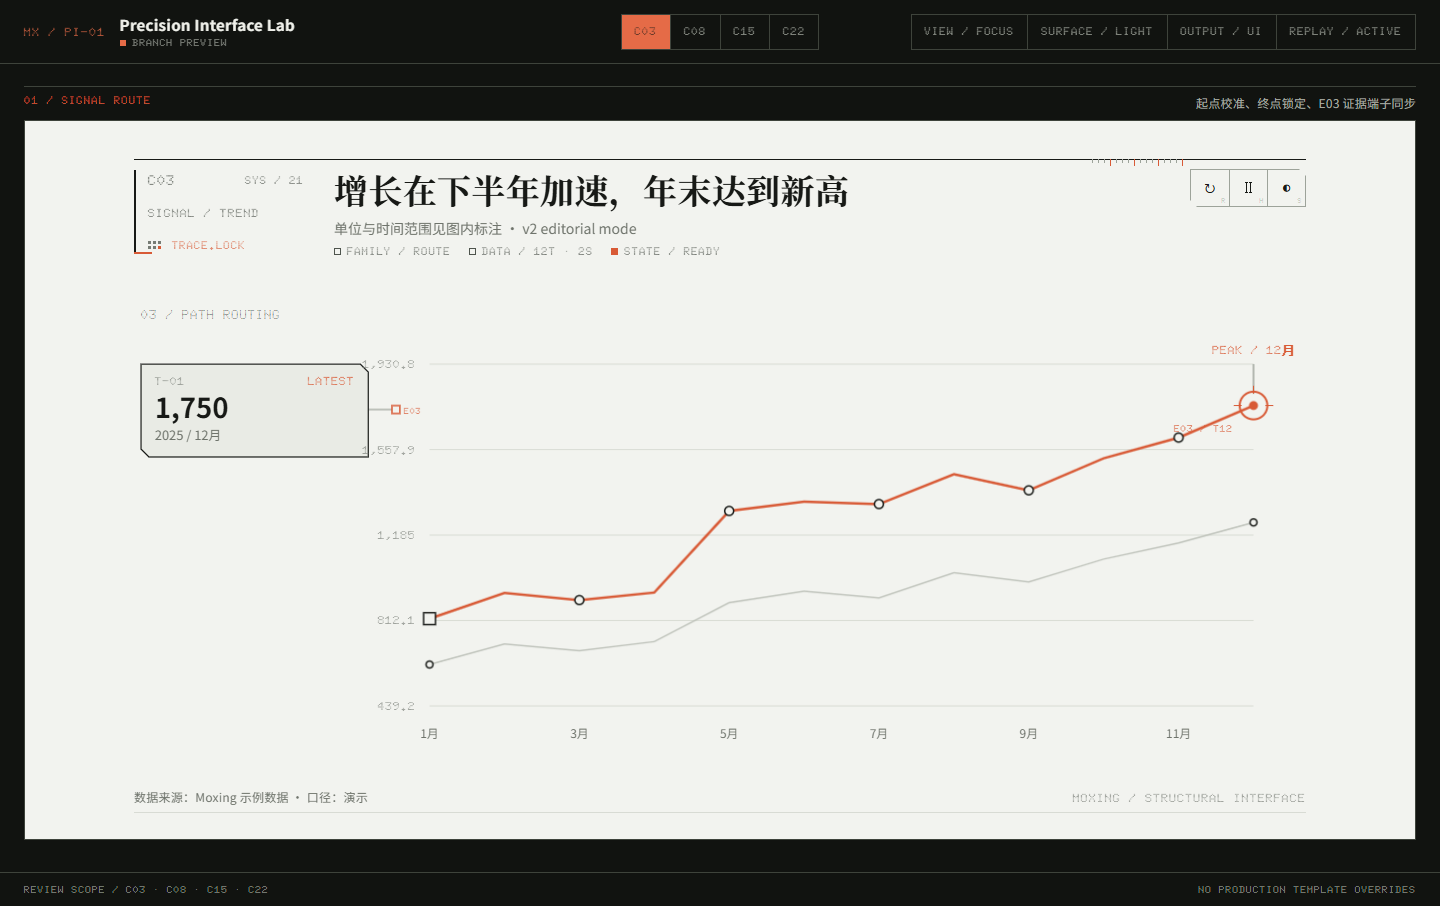
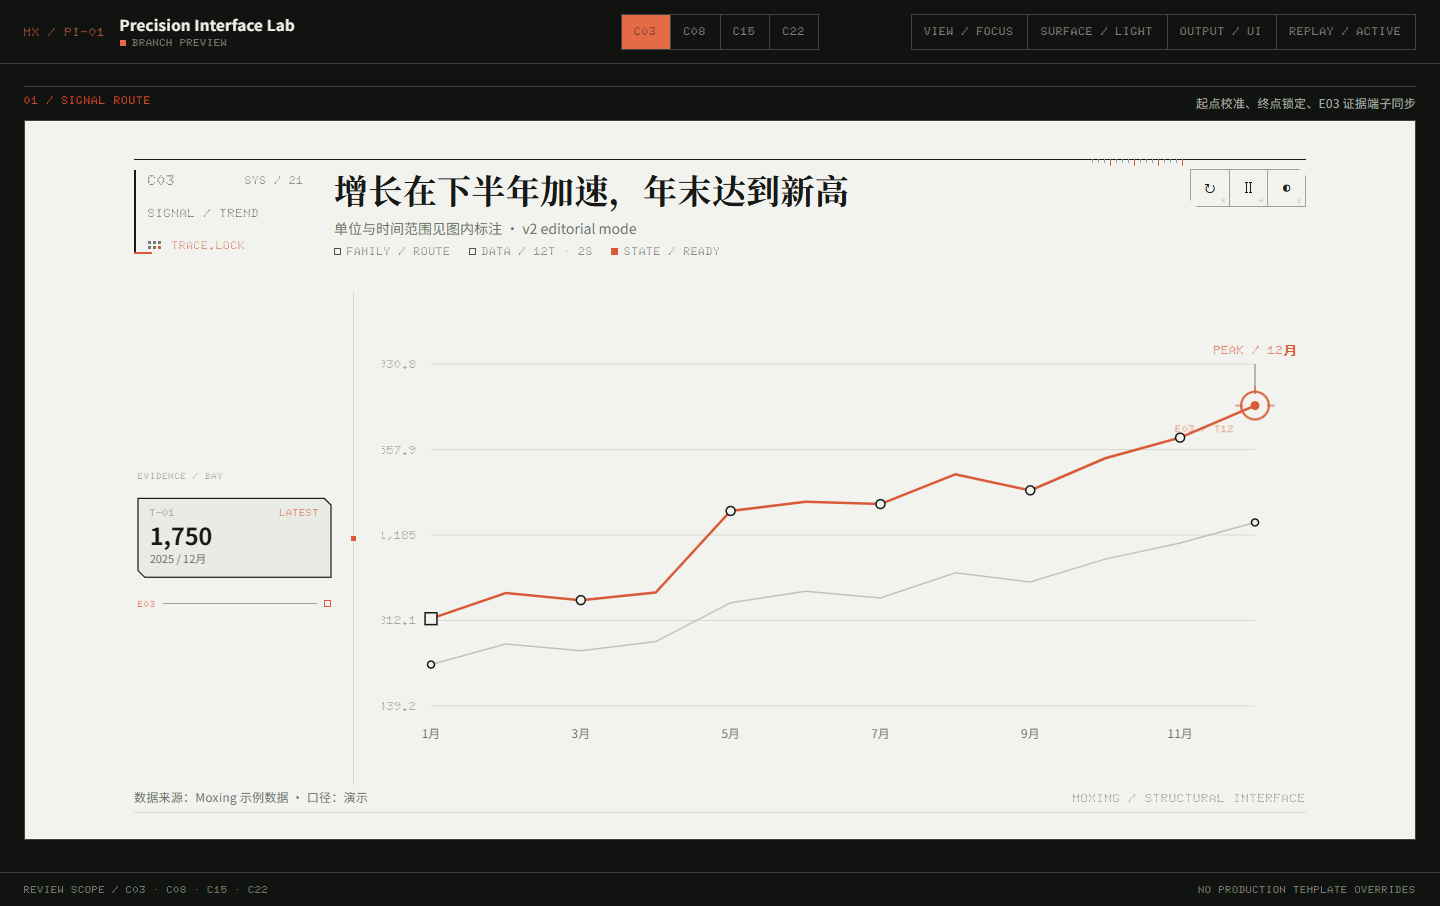
fix: isolate evidence bay and streamline replay motion

diff --git a/designs/precision-interface-lab/lab.js b/designs/precision-interface-lab/lab.js
@@ -3,10 +3,7 @@
   const specs = {
     c03: {
       code: "C03", name: "SIGNAL / TREND", family: "ROUTE", data: "12T · 2S", state: "TRACE.LOCK",
-      background: `
-        <path d="M 230 120 H 258" pathLength="1" class="pi-terminal-lead" />
-        <rect x="254" y="116" width="8" height="8" class="pi-terminal-node" />
-        <text x="266" y="124" font-size="9" class="pi-terminal-id">E03</text>`,
+      evidence: { id: "E03", viewBox: "0 64 230 114", plotX: 248, lockDelay: 1280 },
       foreground: `
         <rect x="286" y="325.67" width="12" height="12" class="pi-socket" style="--pi-delay:180ms" />
         <circle cx="1126" cy="115.94" r="14" class="pi-lock-ring" />
@@ -15,10 +12,7 @@
     },
     c08: {
       code: "C08", name: "STAGE / CHANNEL", family: "STAGE", data: "05M · 04L", state: "BOTTLENECK",
-      background: `
-        <path d="M 230 146 H 270" pathLength="1" class="pi-terminal-lead" />
-        <rect x="266" y="142" width="8" height="8" class="pi-terminal-node" />
-        <text x="278" y="150" font-size="9" class="pi-terminal-id">E08</text>`,
+      evidence: { id: "E08", viewBox: "0 64 230 114", plotX: 280, lockDelay: 1180 },
       foreground: `
         <rect x="380.8" y="416" width="8" height="8" class="pi-socket" style="--pi-delay:180ms" /><text x="384.8" y="443" text-anchor="middle" font-size="9" class="pi-address">S1</text>
         <rect x="546.4" y="416" width="8" height="8" class="pi-socket" style="--pi-delay:300ms" /><text x="550.4" y="443" text-anchor="middle" font-size="9" class="pi-address">S2</text>
@@ -30,10 +24,7 @@
     },
     c15: {
       code: "C15", name: "COMMERCE / FLOW", family: "PORT", data: "05N · 04R", state: "LEAK.LOCK",
-      background: `
-        <path d="M 200 142 H 242" pathLength="1" class="pi-terminal-lead" />
-        <rect x="238" y="138" width="8" height="8" class="pi-terminal-node" />
-        <text x="250" y="146" font-size="9" class="pi-terminal-id">E15</text>`,
+      evidence: { id: "E15", viewBox: "0 76 200 114", plotX: 250, lockDelay: 1100 },
       foreground: `
         <rect x="384" y="191" width="8" height="8" class="pi-socket" style="--pi-delay:180ms" />
         <rect x="384" y="341" width="8" height="8" class="pi-socket" style="--pi-delay:260ms" />
@@ -47,10 +38,7 @@
     },
     c22: {
       code: "C22", name: "ADDRESS / MATRIX", family: "MATRIX", data: "05×05", state: "PAIR.LOCK",
-      background: `
-        <path d="M 230 392 H 270" pathLength="1" class="pi-terminal-lead" />
-        <rect x="266" y="388" width="8" height="8" class="pi-terminal-node" />
-        <text x="278" y="396" font-size="9" class="pi-terminal-id">E22</text>`,
+      evidence: { id: "E22", viewBox: "0 336 230 114", plotX: 255, lockDelay: 980 },
       foreground: `
         <text x="335" y="65" text-anchor="middle" font-size="9" class="pi-address">C1</text><text x="405" y="65" text-anchor="middle" font-size="9" class="pi-address pi-address-signal">C2</text><text x="475" y="65" text-anchor="middle" font-size="9" class="pi-address">C3</text><text x="545" y="65" text-anchor="middle" font-size="9" class="pi-address">C4</text><text x="615" y="65" text-anchor="middle" font-size="9" class="pi-address">C5</text>
         <text x="286" y="109" text-anchor="end" font-size="9" class="pi-address">R1</text><text x="286" y="179" text-anchor="end" font-size="9" class="pi-address pi-address-signal">R2</text><text x="286" y="249" text-anchor="end" font-size="9" class="pi-address">R3</text><text x="286" y="319" text-anchor="end" font-size="9" class="pi-address">R4</text><text x="286" y="389" text-anchor="end" font-size="9" class="pi-address">R5</text>
@@ -68,6 +56,58 @@
     group.setAttribute("class", className);
     group.innerHTML = markup;
     return group;
+  }
+
+  function buildEvidenceBay(doc, svg, spec, key) {
+    const chartBody = svg.parentElement;
+    const plate = svg.querySelector(".evidence-plate");
+    if (!chartBody || !plate) return;
+
+    const bay = doc.createElement("aside");
+    bay.className = "pi-evidence-bay";
+    bay.setAttribute("aria-label", `${spec.evidence.id} evidence bay`);
+    bay.style.setProperty("--pi-terminal-delay", `${Math.max(0, spec.evidence.lockDelay - 120)}ms`);
+
+    const bayLabel = doc.createElement("span");
+    bayLabel.className = "pi-evidence-bay__label";
+    bayLabel.textContent = "EVIDENCE / BAY";
+
+    const plateSvg = doc.createElementNS("http://www.w3.org/2000/svg", "svg");
+    plateSvg.setAttribute("class", "pi-evidence-svg");
+    plateSvg.setAttribute("viewBox", spec.evidence.viewBox);
+    plateSvg.setAttribute("aria-hidden", "true");
+    plateSvg.append(plate);
+
+    const terminal = doc.createElement("div");
+    terminal.className = "pi-bay-terminal";
+    terminal.innerHTML = `<span>${spec.evidence.id}</span><i></i><b></b>`;
+
+    bay.append(bayLabel, plateSvg, terminal);
+    chartBody.classList.add("pi-split-body");
+    chartBody.insertBefore(bay, svg);
+    svg.classList.add("pi-data-field");
+    svg.setAttribute("viewBox", `${spec.evidence.plotX} 0 ${1172 - spec.evidence.plotX} 500`);
+    svg.setAttribute("preserveAspectRatio", "xMidYMid meet");
+
+    if (key === "c22") {
+      [...svg.querySelectorAll("text.index.muted")].forEach((text) => {
+        const x = Number.parseFloat(text.getAttribute("x"));
+        const y = Number.parseFloat(text.getAttribute("y"));
+        if (x === 0 && y > 50) {
+          text.setAttribute("x", "288");
+          text.setAttribute("text-anchor", "end");
+        }
+      });
+    }
+  }
+
+  function optimizeMotion(doc, key) {
+    doc.querySelectorAll("[data-motion]").forEach((element) => {
+      element.removeAttribute("data-motion");
+      element.removeAttribute("data-choreo");
+      ["--delay", "--duration", "--dx", "--dy", "--delay-brief", "--delay-story"].forEach((property) => element.style.removeProperty(property));
+    });
+    doc.documentElement.style.setProperty("--pi-lock-delay", `${specs[key].evidence.lockDelay}ms`);
   }
 
   function instrument(frame) {
@@ -108,9 +148,9 @@
     const controlCodes = { replay: "R", pause: "H", surface: "S" };
     controls.querySelectorAll("button").forEach((button) => { button.dataset.code = controlCodes[button.dataset.action]; });
 
-    const background = svgGroup(doc, "pi-overlay pi-overlay--background", spec.background);
+    buildEvidenceBay(doc, svg, spec, key);
+    optimizeMotion(doc, key);
     const foreground = svgGroup(doc, "pi-overlay pi-overlay--foreground", spec.foreground);
-    svg.insertBefore(background, svg.children[1] || null);
     svg.append(foreground);
 
     frame.contentWindow.Moxing?.setSurface(state.surface);
@@ -148,7 +188,13 @@
     const scaleKey = scale.toFixed(5);
     if (stage.dataset.scale === scaleKey) return;
     stage.dataset.scale = scaleKey;
-    stage.style.transform = `scale(${scaleKey})`;
+    if (CSS.supports("zoom", "1")) {
+      stage.style.zoom = scaleKey;
+      stage.style.transform = "none";
+    } else {
+      stage.style.zoom = "1";
+      stage.style.transform = `scale(${scaleKey})`;
+    }
     viewport.style.height = `${720 * scale}px`;
   }
   function rescaleAll() { document.querySelectorAll(".frame-viewport").forEach(rescale); }

diff --git a/designs/precision-interface-lab/precision-variant.css b/designs/precision-interface-lab/precision-variant.css
@@ -27,11 +27,18 @@ html[data-precision="lab"] .motion-controls button:first-child{border-left:0}
 html[data-precision="lab"] .motion-controls button::after{content:attr(data-code);position:absolute;right:3px;bottom:1px;font-size:7px;color:var(--matrix-quiet);font-family:'Doto','Cascadia Mono',monospace;letter-spacing:.04em}
 html[data-output="export"] .motion-controls{display:none!important}
 
+.pi-split-body{display:grid;grid-template-columns:220px minmax(0,1fr);column-gap:28px;align-items:stretch;min-width:0}
+.pi-evidence-bay{position:relative;min-width:0;padding:0 22px 0 4px;border-right:1px solid var(--grid);display:grid;grid-template-rows:18px auto 18px;align-content:center;gap:9px}
+.pi-evidence-bay::after{content:"";position:absolute;right:-3px;top:50%;width:5px;height:5px;margin-top:-2px;background:var(--signal)}
+.pi-evidence-bay__label{font-family:'Doto','Cascadia Mono',monospace;font-size:9px;font-weight:700;font-variation-settings:'ROND' 0,'wght' 700;letter-spacing:.08em;color:var(--matrix-quiet);align-self:end}
+.pi-evidence-svg{display:block;width:100%!important;height:auto!important;overflow:visible}
+.pi-bay-terminal{height:18px;display:grid;grid-template-columns:auto minmax(20px,1fr) 7px;align-items:center;gap:7px;font-family:'Doto','Cascadia Mono',monospace;font-size:9px;font-weight:750;font-variation-settings:'ROND' 0,'wght' 750;letter-spacing:.06em;color:var(--signal)}
+.pi-bay-terminal i{height:1px;background:var(--rail)}
+.pi-bay-terminal b{display:block;width:7px;height:7px;border:1.5px solid var(--signal);background:var(--bg)}
+.pi-data-field{display:block;width:100%!important;height:100%!important;min-width:0;overflow:hidden}
+
 html[data-precision="lab"] .evidence-plate .panel-stroke{stroke:var(--ink);stroke-width:1.2}
 html[data-precision="lab"] .evidence-plate::selection{background:transparent}
-svg .pi-terminal-lead{fill:none;stroke:var(--rail);stroke-width:1.25;vector-effect:non-scaling-stroke}
-svg .pi-terminal-node{fill:var(--bg);stroke:var(--signal);stroke-width:1.5;vector-effect:non-scaling-stroke}
-svg .pi-terminal-id{font-family:'Doto','Cascadia Mono',monospace;fill:var(--signal);font-weight:750;font-variation-settings:'ROND' 0,'wght' 750;letter-spacing:.06em}
 svg .pi-socket{fill:var(--bg);stroke:var(--ink);stroke-width:1.5;vector-effect:non-scaling-stroke}
 svg .pi-socket-signal{fill:var(--signal);stroke:var(--on-signal);stroke-width:1;vector-effect:non-scaling-stroke}
 svg .pi-lock-ring{fill:none;stroke:var(--signal);stroke-width:2;vector-effect:non-scaling-stroke}
@@ -40,14 +47,15 @@ svg .pi-address{font-family:'Doto','Cascadia Mono',monospace;fill:var(--matrix-s
 svg .pi-address-signal{fill:var(--signal)}
 svg .pi-focus-corner{fill:none;stroke:var(--signal);stroke-width:2;vector-effect:non-scaling-stroke}
 
-@keyframes pi-terminal-send{from{opacity:0;stroke-dashoffset:1}to{opacity:1;stroke-dashoffset:0}}
-@keyframes pi-terminal-id-on{from{opacity:0}to{opacity:1}}
-@keyframes pi-socket-seat{0%{opacity:0;transform:scale(.3)}72%{opacity:1;transform:scale(1.15)}100%{opacity:1;transform:scale(1)}}
-@keyframes pi-lock-pulse{0%{opacity:0;transform:scale(.45)}70%{opacity:1;transform:scale(1.12)}100%{opacity:1;transform:scale(1)}}
-.motion-enabled.is-playing .pi-terminal-lead{stroke-dasharray:1;animation:pi-terminal-send 180ms linear 1180ms both}
-.motion-enabled.is-playing .pi-terminal-node{animation:pi-lock-pulse 200ms cubic-bezier(.22,.78,.22,1) 1320ms both;transform-box:fill-box;transform-origin:center}
-.motion-enabled.is-playing .pi-terminal-id{animation:pi-terminal-id-on 140ms linear 1380ms both}
-.motion-enabled.is-playing .pi-socket{animation:pi-socket-seat 240ms cubic-bezier(.22,.78,.22,1) var(--pi-delay,180ms) both;transform-box:fill-box;transform-origin:center}
-.motion-enabled.is-playing .pi-socket-signal,.motion-enabled.is-playing .pi-lock-ring,.motion-enabled.is-playing .pi-focus-corner{animation:pi-lock-pulse 260ms cubic-bezier(.22,.78,.22,1) 1500ms both;transform-box:fill-box;transform-origin:center}
-html[data-lab-view="grid"] .motion-enabled.is-playing [data-motion],html[data-lab-view="grid"] .motion-enabled.is-playing .pi-terminal-lead,html[data-lab-view="grid"] .motion-enabled.is-playing .pi-terminal-node,html[data-lab-view="grid"] .motion-enabled.is-playing .pi-terminal-id,html[data-lab-view="grid"] .motion-enabled.is-playing .pi-socket,html[data-lab-view="grid"] .motion-enabled.is-playing .pi-socket-signal,html[data-lab-view="grid"] .motion-enabled.is-playing .pi-lock-ring,html[data-lab-view="grid"] .motion-enabled.is-playing .pi-focus-corner{animation:none!important}
-@media (prefers-reduced-motion:reduce){.motion-enabled.is-playing .pi-terminal-lead,.motion-enabled.is-playing .pi-terminal-node,.motion-enabled.is-playing .pi-terminal-id,.motion-enabled.is-playing .pi-socket,.motion-enabled.is-playing .pi-socket-signal,.motion-enabled.is-playing .pi-lock-ring,.motion-enabled.is-playing .pi-focus-corner{animation:none!important}}
+@keyframes pi-field-enter{from{opacity:.18;transform:translate3d(-7px,0,0)}to{opacity:1;transform:translate3d(0,0,0)}}
+@keyframes pi-evidence-enter{from{opacity:0;transform:translate3d(-5px,0,0)}to{opacity:1;transform:translate3d(0,0,0)}}
+@keyframes pi-terminal-handshake{from{opacity:.2}to{opacity:1}}
+@keyframes pi-lock-settle{from{opacity:0}to{opacity:1}}
+
+.motion-enabled.is-playing .pi-data-field{animation:pi-field-enter 900ms cubic-bezier(.22,.72,.18,1) 40ms both;will-change:transform,opacity;backface-visibility:hidden}
+.motion-enabled.is-playing .pi-evidence-bay{animation:pi-evidence-enter 620ms cubic-bezier(.22,.72,.18,1) 480ms both;will-change:transform,opacity;backface-visibility:hidden}
+.motion-enabled.is-playing .pi-bay-terminal{animation:pi-terminal-handshake 360ms linear var(--pi-terminal-delay,860ms) both}
+.motion-enabled.is-playing .pi-lock-ring,.motion-enabled.is-playing .pi-focus-corner{animation:pi-lock-settle 320ms linear var(--pi-lock-delay,980ms) both}
+.motion-enabled.is-paused .pi-data-field,.motion-enabled.is-paused .pi-evidence-bay,.motion-enabled.is-paused .pi-bay-terminal,.motion-enabled.is-paused .pi-lock-ring,.motion-enabled.is-paused .pi-focus-corner{animation-play-state:paused!important}
+html[data-lab-view="grid"] .motion-enabled.is-playing .pi-data-field,html[data-lab-view="grid"] .motion-enabled.is-playing .pi-evidence-bay,html[data-lab-view="grid"] .motion-enabled.is-playing .pi-bay-terminal,html[data-lab-view="grid"] .motion-enabled.is-playing .pi-lock-ring,html[data-lab-view="grid"] .motion-enabled.is-playing .pi-focus-corner{animation:none!important}
+@media (prefers-reduced-motion:reduce){.motion-enabled.is-playing .pi-data-field,.motion-enabled.is-playing .pi-evidence-bay,.motion-enabled.is-playing .pi-bay-terminal,.motion-enabled.is-playing .pi-lock-ring,.motion-enabled.is-playing .pi-focus-corner{animation:none!important}}

diff --git a/designs/precision-interface-lab/README.md b/designs/precision-interface-lab/README.md
@@ -9,9 +9,9 @@ This branch-only lab tests the agreed **60% Moxing / 40% precision-device** visu
 - Rails, sockets, ports, and mechanical lock points are structural and data-bound.
 - Dot-matrix texture remains limited to identifiers and state metadata.
 - Light industrial-drawing surface is the default; dark is the instrument companion.
-- Evidence plates and chart lock points use paired local terminals; no long route crosses the data field.
+- Evidence plates live in an isolated side bay; paired local terminals replace long routes across the data field.
 - The segmented control dock is visible in-browser and hidden in export state.
-- Motion remains short, mechanical, and deterministic.
+- Motion remains short, mechanical, and deterministic, with one continuous data-field entrance instead of per-mark sequencing.
 - Grid view is a static comparison surface; replay enters focus view and animates one chart only.
 
 ## Prototype coverage
@@ -23,9 +23,12 @@ This branch-only lab tests the agreed **60% Moxing / 40% precision-device** visu
 
 ## Collision and motion policy
 
-- A chart only supplies a source terminal coordinate, a target lock coordinate, and a shared evidence ID.
+- The evidence bay owns a fixed 220 px column, a 28 px safety gap, and a hard SVG crop boundary; chart marks cannot paint across its divider.
+- A chart only supplies a target lock coordinate, a shared evidence ID, and the plot crop origin.
 - The paired ID, signal color, and timed handshake communicate the relationship without obstacle routing.
+- Replay uses four or fewer concurrent macro layers: data field, evidence bay, terminal, and target lock.
 - Hidden and grid-view iframes are settled, so SVG motion is never multiplied across four scaled canvases.
+- The validation pass includes an 824 px viewport separation check and a replay frame-cadence sample.
 
 ## Review URL
 
